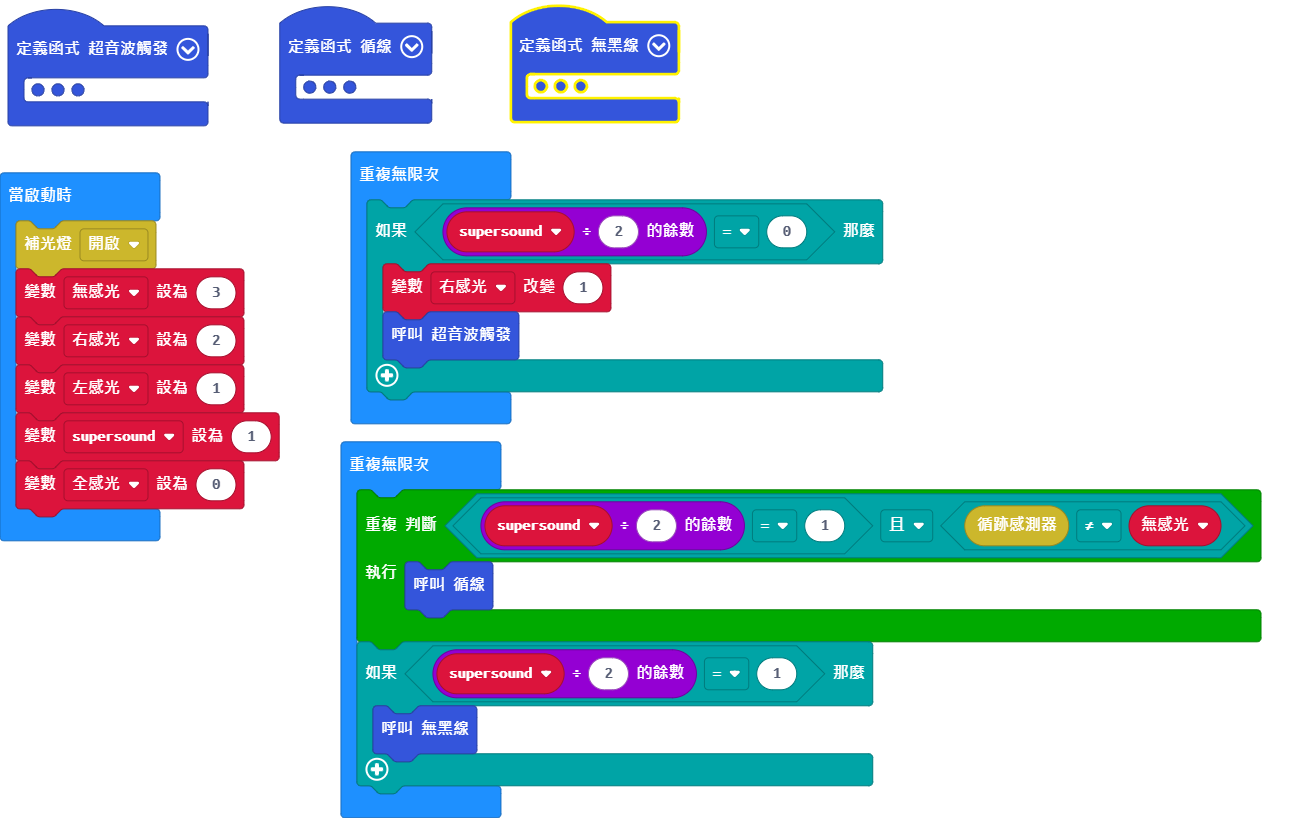
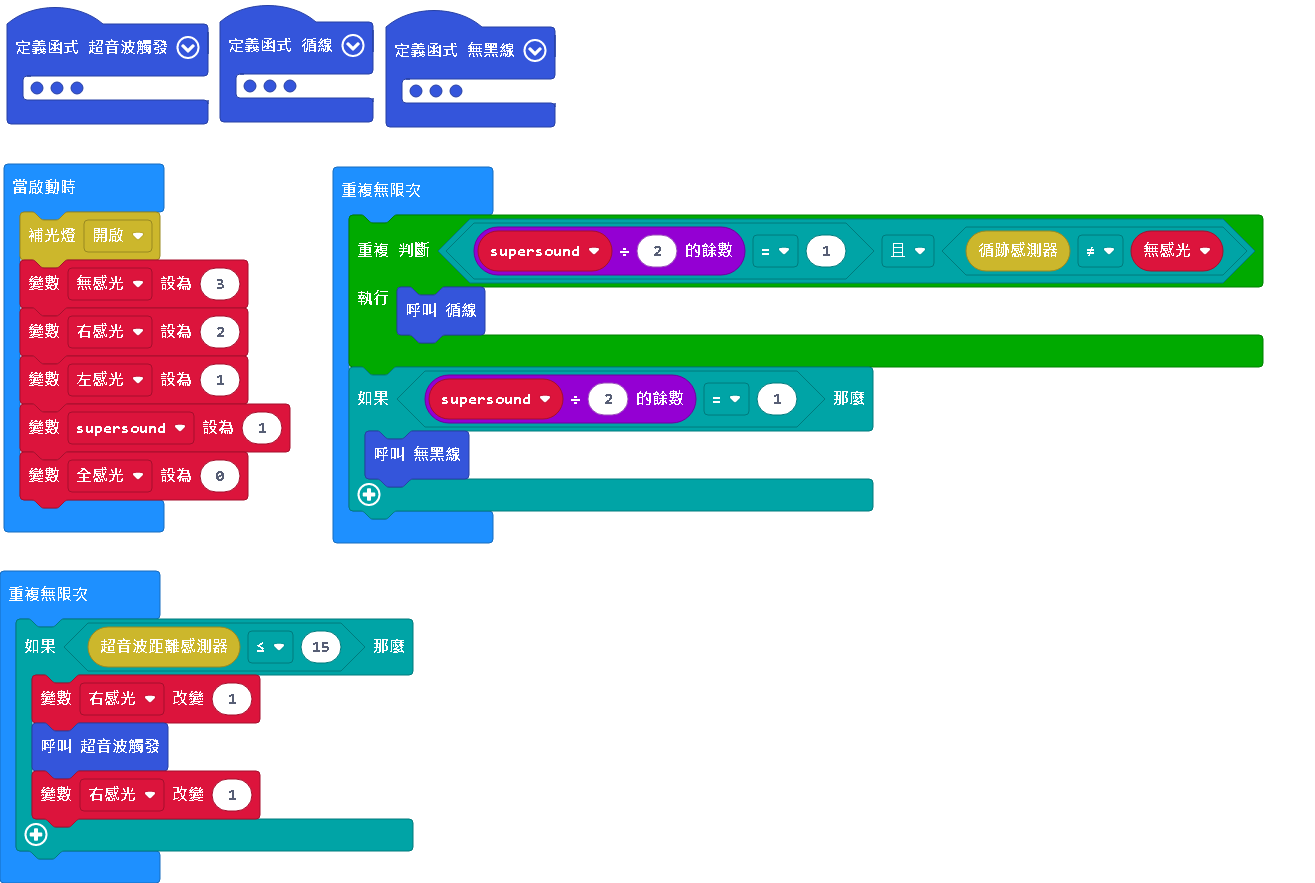
更新 main.blocks, main.ts, main.py

diff --git a/main.ts b/main.ts
@@ -43,13 +43,13 @@ function 無黑線 () {
             break;
         }
     }
-    for (let index = 0; index < 20; index++) {
+    for (let index = 0; index < 40; index++) {
         mooncar.MoonCarGo(mooncar.Direction.direct4, 6)
         basic.pause(1)
     }
     for (let index = 0; index < 20; index++) {
         if (mooncar.IRRead() == 無感光) {
-            mooncar.MoonCarGo(mooncar.Direction.direct4, 6)
+            mooncar.MoonCarGo(mooncar.Direction.direct3, 6)
             basic.pause(1)
         } else {
             break;
@@ -66,6 +66,7 @@ function 無黑線 () {
     for (let index = 0; index < 100; index++) {
         if (mooncar.IRRead() == 無感光) {
             mooncar.MoonCarGo(mooncar.Direction.direct2, 50)
+            basic.pause(1)
         } else {
             break;
         }
@@ -73,16 +74,19 @@ function 無黑線 () {
     for (let index = 0; index < 1000; index++) {
         if (mooncar.IRRead() == 無感光) {
             mooncar.MoonCarGo(mooncar.Direction.direct3, 50)
+            basic.pause(1)
         } else {
             break;
         }
     }
     for (let index = 0; index < 1000; index++) {
         mooncar.MoonCarGo(mooncar.Direction.direct3, 50)
+        basic.pause(1)
     }
     for (let index = 0; index < 1000; index++) {
         if (mooncar.IRRead() == 無感光) {
             mooncar.MoonCarGo(mooncar.Direction.direct3, 50)
+            basic.pause(1)
         } else {
             break;
         }
@@ -100,16 +104,17 @@ mooncar.Filllight(mooncar.Switch.Open)
 supersound = 1
 全感光 = 0
 basic.forever(function () {
-    if (supersound % 2 == 0) {
-        右感光 += 1
-        超音波觸發()
-    }
-})
-basic.forever(function () {
     while (supersound % 2 == 1 && mooncar.LineFollowerSensor() != 無感光) {
         循線()
     }
     if (supersound % 2 == 1) {
         無黑線()
+    }
+})
+basic.forever(function () {
+    if (mooncar.UltrasonicSensor() <= 15) {
+        右感光 += 1
+        超音波觸發()
+        右感光 += 1
     }
 })

diff --git a/main.py b/main.py
@@ -1,21 +1,20 @@
 def 循線():
-    while mooncar.line_follower_sensor() != 無感光:
-        basic.show_leds("""
-            . # . # .
-                        . . . . .
-                        # # . # #
-                        . . # . .
-                        . . . . .
-        """)
-        if mooncar.line_follower_sensor() == 全感光:
-            mooncar.moon_car_go(mooncar.Direction.DIRECT1, 15)
-            basic.pause(1)
-        elif mooncar.line_follower_sensor() == 左感光:
-            mooncar.moon_car_go(mooncar.Direction.DIRECT3, 6)
-            basic.pause(1)
-        elif mooncar.line_follower_sensor() == 右感光:
-            mooncar.moon_car_go(mooncar.Direction.DIRECT4, 6)
-            basic.pause(1)
+    basic.show_leds("""
+        . # . # .
+                . . . . .
+                # # . # #
+                . . # . .
+                . . . . .
+    """)
+    if mooncar.line_follower_sensor() == 全感光:
+        mooncar.moon_car_go(mooncar.Direction.DIRECT1, 15)
+        basic.pause(1)
+    elif mooncar.line_follower_sensor() == 左感光:
+        mooncar.moon_car_go(mooncar.Direction.DIRECT3, 6)
+        basic.pause(1)
+    elif mooncar.line_follower_sensor() == 右感光:
+        mooncar.moon_car_go(mooncar.Direction.DIRECT4, 6)
+        basic.pause(1)
 def 超音波觸發():
     if supersound / 2 % 2 == 1:
         mooncar.moon_car_go(mooncar.Direction.DIRECT4, 15)
@@ -31,6 +30,49 @@ def 超音波觸發():
         basic.pause(4000)
         mooncar.moon_car_go(mooncar.Direction.DIRECT3, 15)
         basic.pause(500)
+def 無黑線():
+    for index in range(20):
+        if mooncar.ir_read() == 無感光:
+            mooncar.moon_car_go(mooncar.Direction.DIRECT3, 6)
+            basic.pause(1)
+        else:
+            break
+    for index2 in range(40):
+        mooncar.moon_car_go(mooncar.Direction.DIRECT4, 6)
+        basic.pause(1)
+    for index3 in range(20):
+        if mooncar.ir_read() == 無感光:
+            mooncar.moon_car_go(mooncar.Direction.DIRECT3, 6)
+            basic.pause(1)
+        else:
+            break
+    for index4 in range(100):
+        if mooncar.ir_read() == 無感光:
+            mooncar.moon_car_go(mooncar.Direction.DIRECT1, 12)
+            basic.pause(1)
+        else:
+            break
+    for index5 in range(100):
+        if mooncar.ir_read() == 無感光:
+            mooncar.moon_car_go(mooncar.Direction.DIRECT2, 50)
+            basic.pause(1)
+        else:
+            break
+    for index6 in range(1000):
+        if mooncar.ir_read() == 無感光:
+            mooncar.moon_car_go(mooncar.Direction.DIRECT3, 50)
+            basic.pause(1)
+        else:
+            break
+    for index7 in range(1000):
+        mooncar.moon_car_go(mooncar.Direction.DIRECT3, 50)
+        basic.pause(1)
+    for index8 in range(1000):
+        if mooncar.ir_read() == 無感光:
+            mooncar.moon_car_go(mooncar.Direction.DIRECT3, 50)
+            basic.pause(1)
+        else:
+            break
 全感光 = 0
 supersound = 0
 左感光 = 0
@@ -44,47 +86,16 @@ supersound = 1
 全感光 = 0
 
 def on_forever():
-    global 右感光
-    if supersound % 2 == 0:
-        右感光 += 1
-        超音波觸發()
+    while supersound % 2 == 1 and mooncar.line_follower_sensor() != 無感光:
+        循線()
+    if supersound % 2 == 1:
+        無黑線()
 basic.forever(on_forever)
 
 def on_forever2():
-    if supersound % 2 == 1:
-        循線()
-    if supersound % 2 == 1:
-        循線()
+    global 右感光
+    if mooncar.ultrasonic_sensor() <= 15:
+        右感光 += 1
+        超音波觸發()
+        右感光 += 1
 basic.forever(on_forever2)
-def 無黑線():
-    while mooncar.ir_read() != 無感光:
-        for index in range(1000):
-            if mooncar.ir_read() == 無感光:
-                mooncar.moon_car_go(mooncar.Direction.DIRECT3, 50)
-            else:
-                break
-        for index2 in range(100):
-            if mooncar.ir_read() == 無感光:
-                mooncar.moon_car_go(mooncar.Direction.DIRECT1, 50)
-            else:
-                break
-        for index3 in range(20):
-            if mooncar.ir_read() == 無感光:
-                mooncar.moon_car_go(mooncar.Direction.DIRECT3, 50)
-            else:
-                break
-        for index4 in range(40):
-            if mooncar.ir_read() == 無感光:
-                mooncar.moon_car_go(mooncar.Direction.DIRECT4, 50)
-            else:
-                break
-        for index5 in range(100):
-            if mooncar.ir_read() == 無感光:
-                mooncar.moon_car_go(mooncar.Direction.DIRECT2, 50)
-            else:
-                break
-        while 1 > 0:
-            if mooncar.ir_read() == 無感光:
-                mooncar.moon_car_go(mooncar.Direction.DIRECT3, 50)
-            else:
-                break
